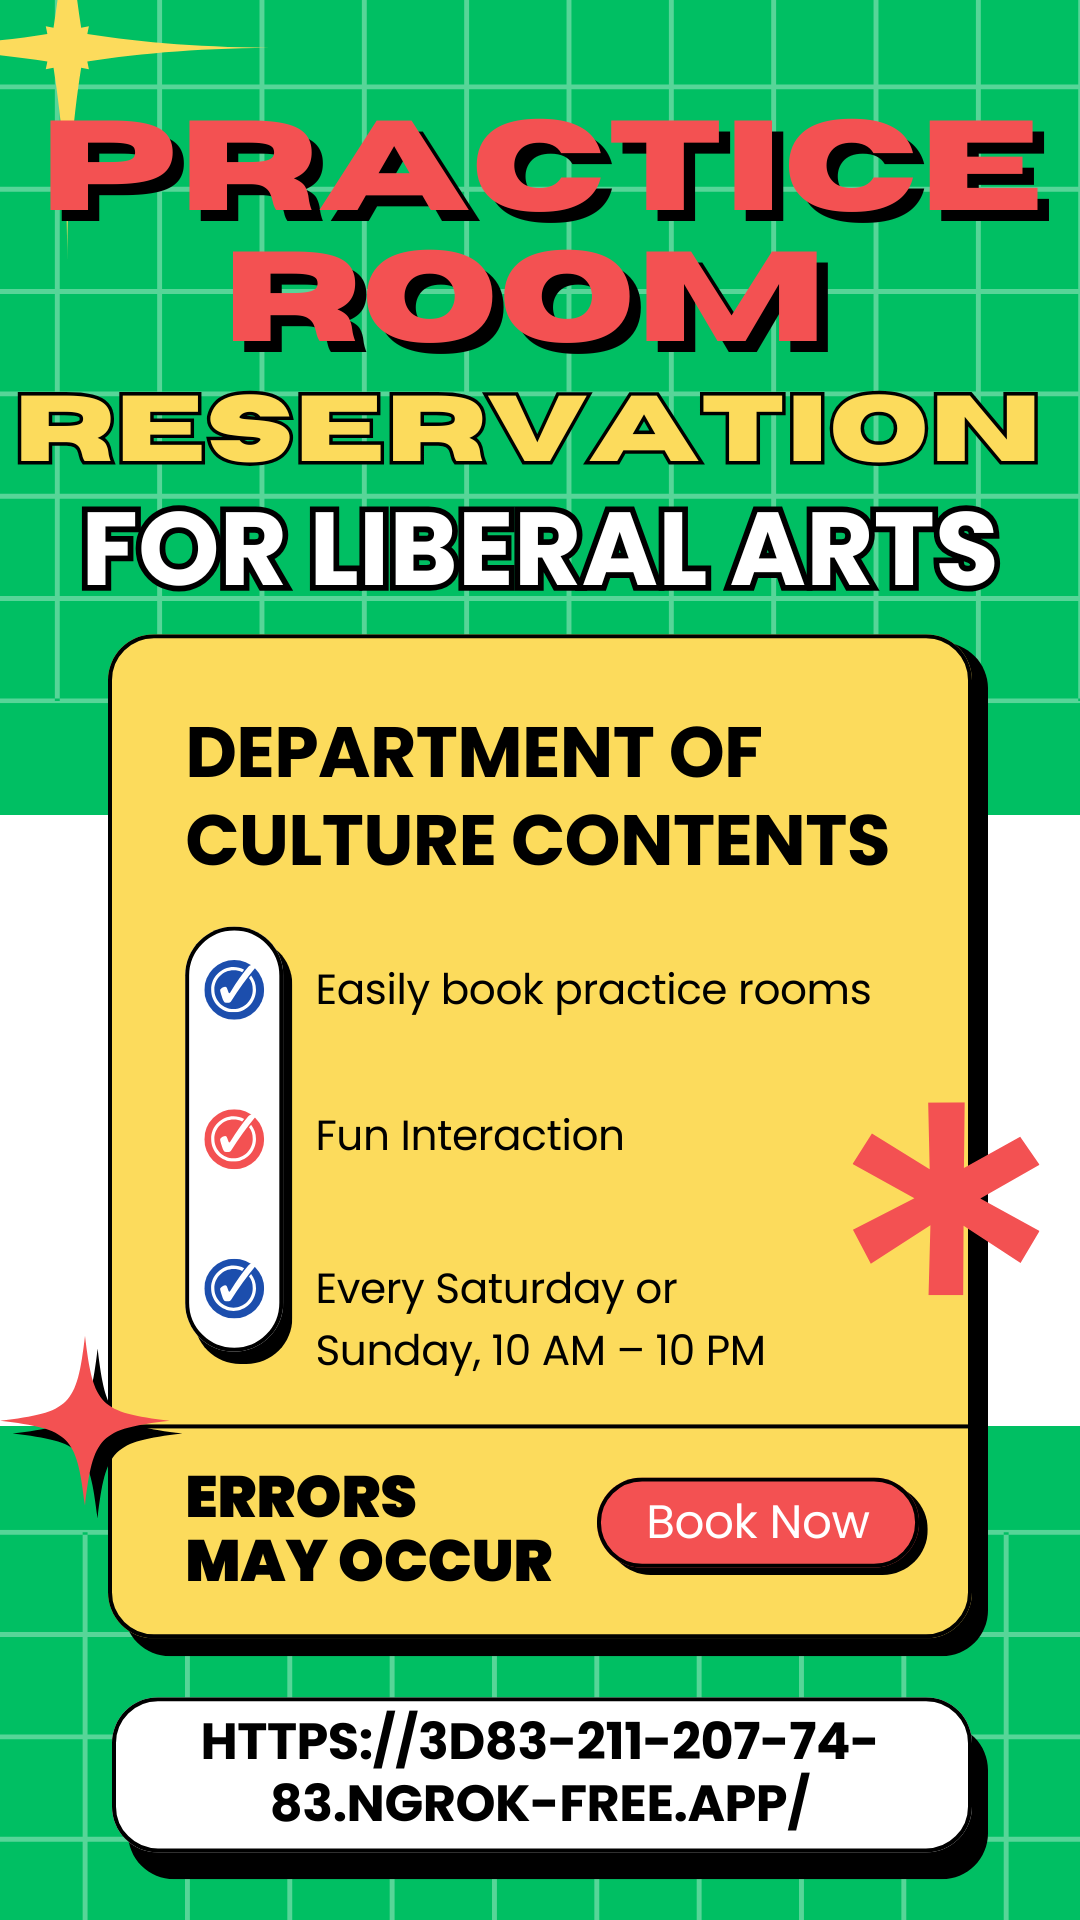
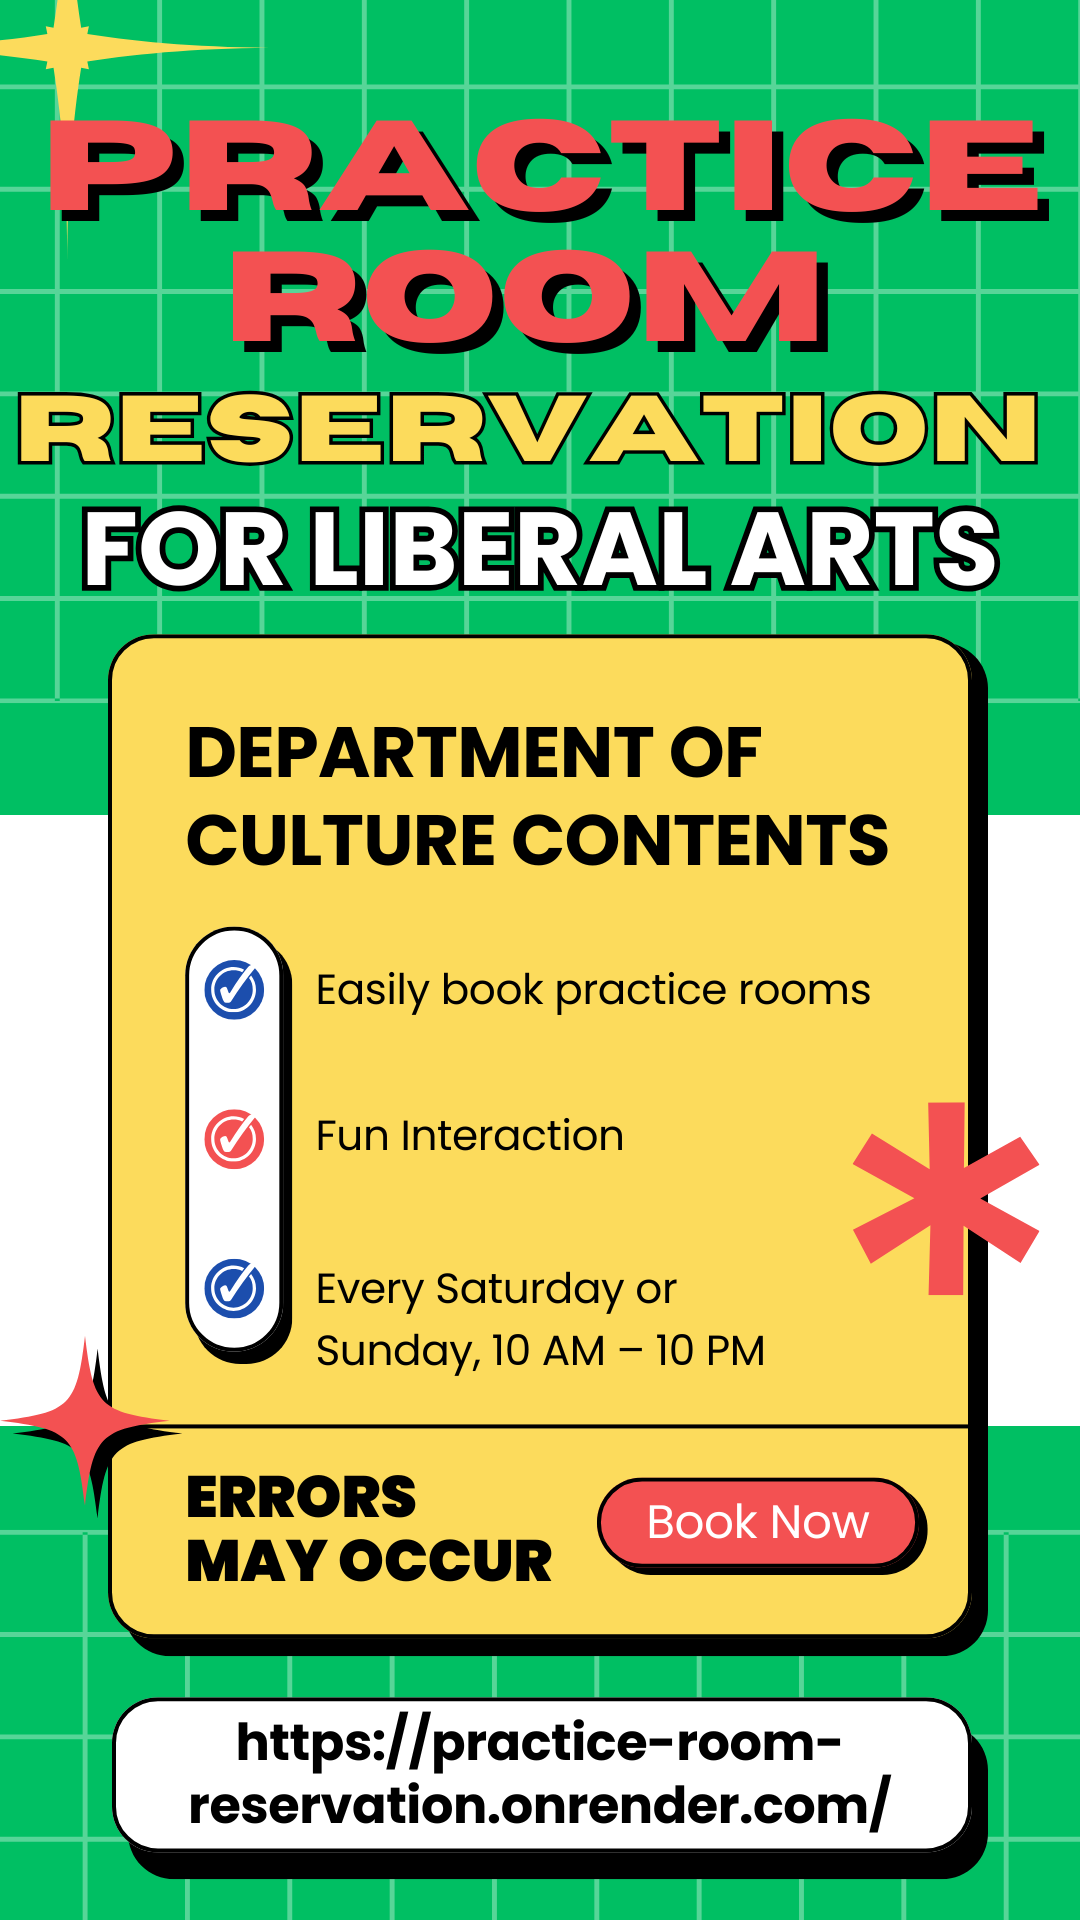
feat: 로그인, 회원가입 이미지 url 수정

Changed region(s): [[0.1833, 0.875, 0.825, 0.9688]]

diff --git a/README.md b/README.md
@@ -1,69 +1,69 @@
-# uc2e4ud5d8uc2e4 uc608uc57d uc2dcuc2a4ud15c
+# 실험실 예약 시스템
 
-uc2e4ud5d8uc2e4 uc608uc57d uad00ub9acub97c uc704ud55c uc6f9 uc560ud50cub9acucf00uc774uc158uc785ub2c8ub2e4. ud559uc0ddub4e4uc774 uc2e4ud5d8uc2e4 uc2dcuac04uc744 uc608uc57dud558uace0 uad00ub9acuc790uac00 uc774ub97c uc2b9uc778ud558ub294 uae30ub2a5uc744 uc81cuacf5ud569ub2c8ub2e4.
+실험실 예약 관리를 위한 웹 애플리케이션입니다. 학생들이 실험실 시간을 예약하고 관리자가 이를 승인하는 기능을 제공합니다.
 
-## uae30ub2a5
+## 기능
 
-- uc0acuc6a9uc790 ub4f1ub85d ubc0f ub85cuadf8uc778
-- uc2e4ud5d8uc2e4 uc608uc57d uc2dcuc2a4ud15c
-- uad00ub9acuc790 uc2b9uc778 uc2dcuc2a4ud15c
-- uc2dcuac04ubcc4 ucc28ub2e8 uad00ub9ac
-- uc0acuc6a9uc790 uad00ub9ac
+- 사용자 등록 및 로그인
+- 실험실 예약 시스템
+- 관리자 승인 시스템
+- 시간별 차단 관리
+- 사용자 관리
 
-## uae30uc220 uc2a4ud0dd
+## 기술 스택
 
-- **ubc31uc5d4ub4dc**: Flask, Flask-SQLAlchemy, Flask-Login
-- **ud504ub860ud2b8uc5d4ub4dc**: HTML, CSS, JavaScript, FullCalendar
-- **ub370uc774ud130ubca0uc774uc2a4**: SQLite (ub85cuceec), PostgreSQL (ubc30ud3ec)
+- **백엔드**: Flask, Flask-SQLAlchemy, Flask-Login
+- **프론트엔드**: HTML, CSS, JavaScript, FullCalendar
+- **데이터베이스**: SQLite (로컬), PostgreSQL (배포)
 
-## ubc30ud3ec uac00uc774ub4dc (Render)
+## 배포 가이드 (Render)
 
-### ubc30ud3ec uc900ube44
+### 배포 준비
 
-1. GitHubuc5d0 ucf54ub4dc uc5c5ub85cub4dc
-2. [Render](https://render.com/) uac00uc785
-3. New Web Service uc120ud0dd ubc0f GitHub uc800uc7a5uc18c uc5f0uacb0
+1. GitHub에 코드 업로드
+2. [Render](https://render.com/) 가입
+3. New Web Service 선택 및 GitHub 저장소 연결
 
-### ud658uacbd ubcc0uc218 uc124uc815
+### 환경 변수 설정
 
-- `ADMIN_USERNAME`: uad00ub9acuc790 uc544uc774ub514
-- `ADMIN_PASSWORD`: uad00ub9acuc790 ube44ubc00ubc88ud638
-- `SECRET_KEY`: uc561uc138uc2a4 ud1a0ud070 uc554ud638ud654uc6a9 ud0a4
-- `CULTURE_CONTENT_DEPT`: ubb38ud654ucf58ud150uce20ud559uacfc uc774ub984
+- `ADMIN_USERNAME`: 관리자 아이디
+- `ADMIN_PASSWORD`: 관리자 비밀번호
+- `SECRET_KEY`: 액세스 토큰 암호화용 키
+- `CULTURE_CONTENT_DEPT`: 문화콘텐츠학과 이름
 
-### ubc30ud3ec ud6c4 ucd08uae30 uc124uc815
+### 배포 후 초기 설정
 
-1. Renderuc758 uc258uc5d0uc11c ub370uc774ud130ubca0uc774uc2a4 ucd08uae30ud654:
+1. Render의 쉘에서 데이터베이스 초기화:
 ```
 python init_db.py
 ```
 
-## ub85cuceec uac1cubc1c ud658uacbd uc124uc815
+## 로컬 개발 환경 설정
 
-1. uc800uc7a5uc18c ubcf5uc81c:
+1. 저장소 복제:
 ```
-git clone <uc800uc7a5uc18c URL>
+git clone <저장소 URL>
 cd lab_reservation
 ```
 
-2. uac00uc0c1 ud658uacbd uc124uc815 (uc120ud0dduc0acud56d):
+2. 가상 환경 설정 (선택사항):
 ```
 python -m venv venv
-source venv/bin/activate  # ub9acub205uc2a4/Mac
-venv\Scripts\activate    # uc708ub3c4uc6b0
+source venv/bin/activate  # 리눅스/Mac
+venv\Scripts\activate    # 윈도우
 ```
 
-3. ud328ud0a4uc9c0 uc124uce58:
+3. 패키지 설치:
 ```
 pip install -r requirements.txt
 ```
 
-4. ub370uc774ud130ubca0uc774uc2a4 ucd08uae30ud654:
+4. 데이터베이스 초기화:
 ```
 python init_db.py
 ```
 
-5. uc11cubc84 uc2e4ud589:
+5. 서버 실행:
 ```
 python app.py
 ```
